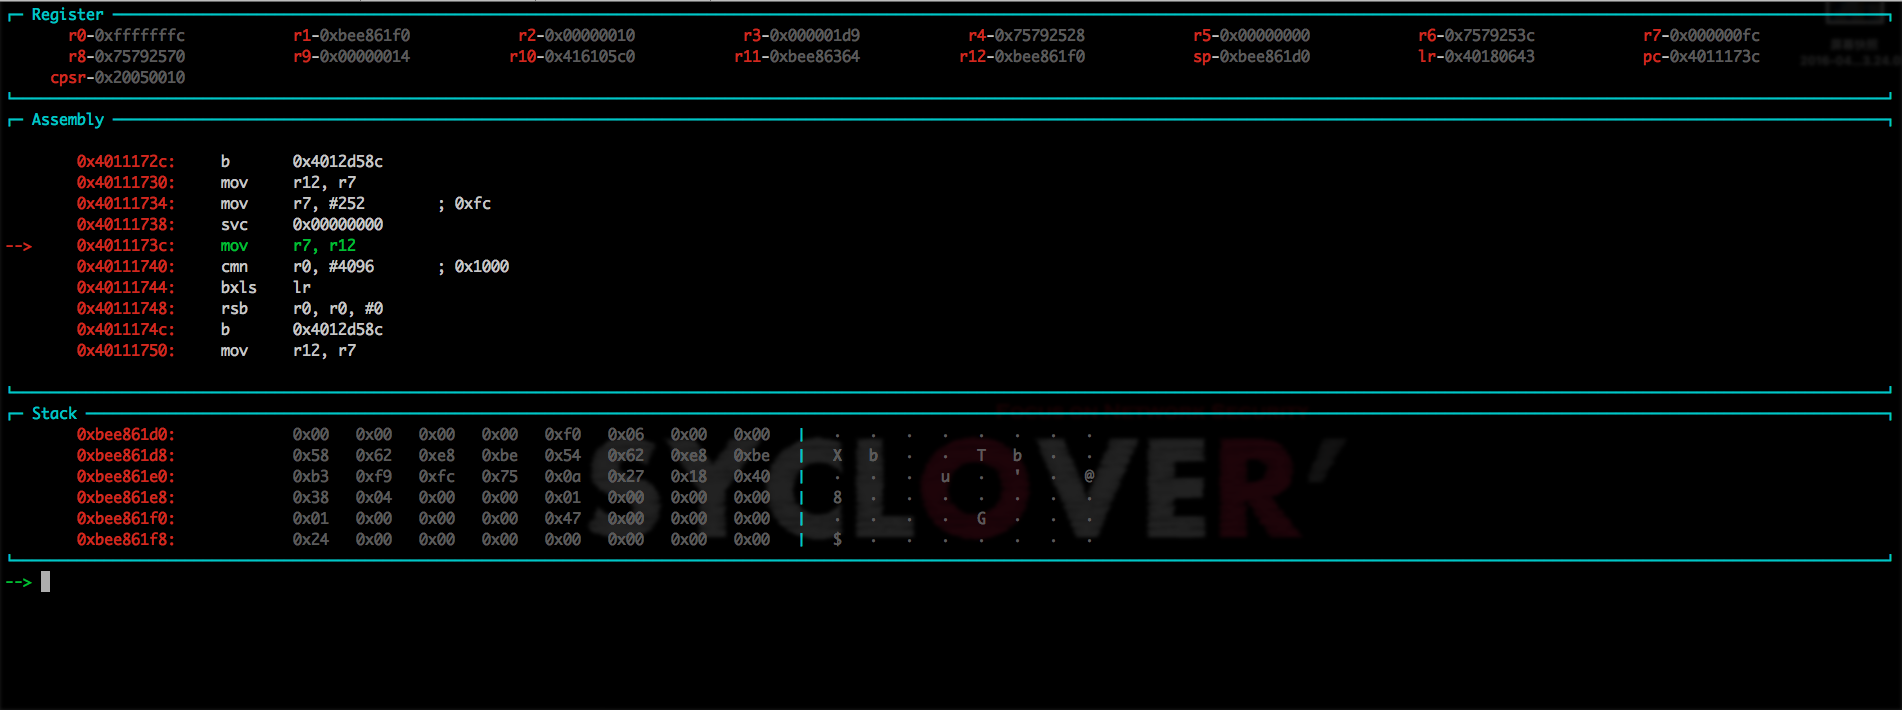
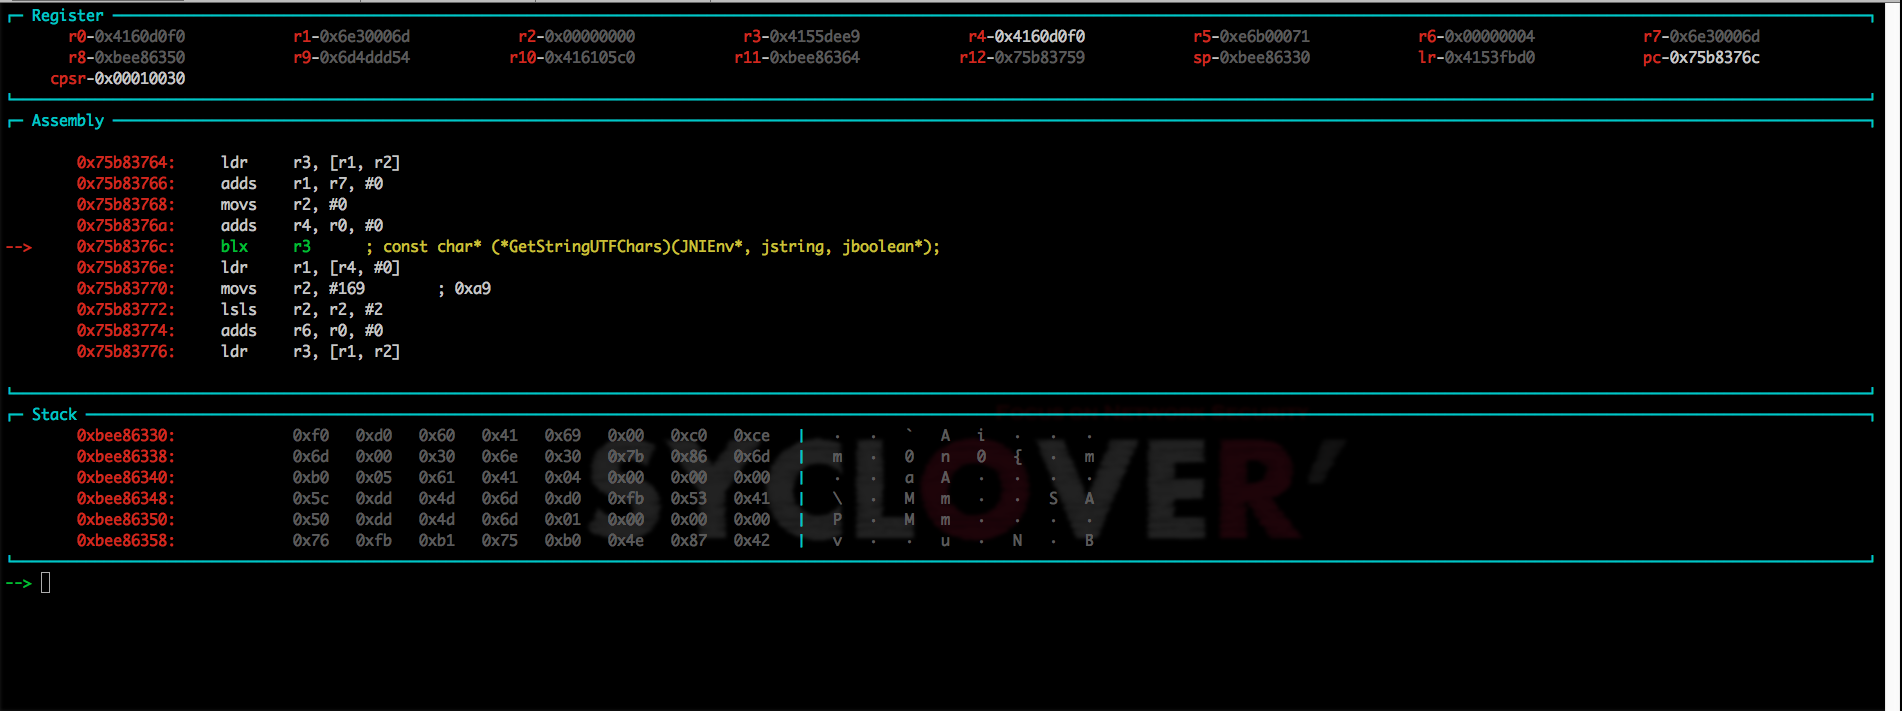
parsing the jni functions

diff --git a/strongdb.py b/strongdb.py
@@ -38,6 +38,7 @@ class Strongdb:
         Strongdb.term_width = Strongdb.get_terminal_width()
 
         Strongdb.run_cmd('set $sgdb_stack_width = 4')
+        Strongdb.run_cmd('set $sgdb_jnienv = 0')
         Strongdb.run_cmd('set pagination off')
 
     def init_handlers(self):
@@ -201,7 +202,250 @@ class StackModule():
             self.stack_info.append(line_list)
 
 
+class JniNativeInterface():
+    is_loaded = False
+    func_address = {}
+    table = [
+        "void*       reserved0;",
+        "void*       reserved1;",
+        "void*       reserved2;",
+        "void*       reserved3;",
+        "jint        (*GetVersion)(JNIEnv *);",
+        "jclass      (*DefineClass)(JNIEnv*, const char*, jobject, const jbyte*, jsize);",
+        "jclass      (*FindClass)(JNIEnv*, const char*);",
+        "jmethodID   (*FromReflectedMethod)(JNIEnv*, jobject);",
+        "jfieldID    (*FromReflectedField)(JNIEnv*, jobject);",
+        "jobject     (*ToReflectedMethod)(JNIEnv*, jclass, jmethodID, jboolean);",
+        "jclass      (*GetSuperclass)(JNIEnv*, jclass);",
+        "jboolean    (*IsAssignableFrom)(JNIEnv*, jclass, jclass);",
+        "jobject     (*ToReflectedField)(JNIEnv*, jclass, jfieldID, jboolean);",
+        "jint        (*Throw)(JNIEnv*, jthrowable);",
+        "jint        (*ThrowNew)(JNIEnv *, jclass, const char *);",
+        "jthrowable  (*ExceptionOccurred)(JNIEnv*);",
+        "void        (*ExceptionDescribe)(JNIEnv*);",
+        "void        (*ExceptionClear)(JNIEnv*);",
+        "void        (*FatalError)(JNIEnv*, const char*);",
+        "jint        (*PushLocalFrame)(JNIEnv*, jint);",
+        "jobject     (*PopLocalFrame)(JNIEnv*, jobject);",
+        "jobject     (*NewGlobalRef)(JNIEnv*, jobject);",
+        "void        (*DeleteGlobalRef)(JNIEnv*, jobject);",
+        "void        (*DeleteLocalRef)(JNIEnv*, jobject);",
+        "jboolean    (*IsSameObject)(JNIEnv*, jobject, jobject);",
+        "jobject     (*NewLocalRef)(JNIEnv*, jobject);",
+        "jint        (*EnsureLocalCapacity)(JNIEnv*, jint);",
+        "jobject     (*AllocObject)(JNIEnv*, jclass);",
+        "jobject     (*NewObject)(JNIEnv*, jclass, jmethodID, ...);",
+        "jobject     (*NewObjectV)(JNIEnv*, jclass, jmethodID, va_list);",
+        "jobject     (*NewObjectA)(JNIEnv*, jclass, jmethodID, jvalue*);",
+        "jclass      (*GetObjectClass)(JNIEnv*, jobject);",
+        "jboolean    (*IsInstanceOf)(JNIEnv*, jobject, jclass);",
+        "jmethodID   (*GetMethodID)(JNIEnv*, jclass, const char*, const char*);",
+        "jobject     (*CallObjectMethod)(JNIEnv*, jobject, jmethodID, ...);",
+        "jobject     (*CallObjectMethodV)(JNIEnv*, jobject, jmethodID, va_list);",
+        "jobject     (*CallObjectMethodA)(JNIEnv*, jobject, jmethodID, jvalue*);",
+        "jboolean    (*CallBooleanMethod)(JNIEnv*, jobject, jmethodID, ...);",
+        "jboolean    (*CallBooleanMethodV)(JNIEnv*, jobject, jmethodID, va_list);",
+        "jboolean    (*CallBooleanMethodA)(JNIEnv*, jobject, jmethodID, jvalue*);",
+        "jbyte       (*CallByteMethod)(JNIEnv*, jobject, jmethodID, ...);",
+        "jbyte       (*CallByteMethodV)(JNIEnv*, jobject, jmethodID, va_list);",
+        "jbyte       (*CallByteMethodA)(JNIEnv*, jobject, jmethodID, jvalue*);",
+        "jchar       (*CallCharMethod)(JNIEnv*, jobject, jmethodID, ...);",
+        "jchar       (*CallCharMethodV)(JNIEnv*, jobject, jmethodID, va_list);",
+        "jchar       (*CallCharMethodA)(JNIEnv*, jobject, jmethodID, jvalue*);",
+        "jshort      (*CallShortMethod)(JNIEnv*, jobject, jmethodID, ...);",
+        "jshort      (*CallShortMethodV)(JNIEnv*, jobject, jmethodID, va_list);",
+        "jshort      (*CallShortMethodA)(JNIEnv*, jobject, jmethodID, jvalue*);",
+        "jint        (*CallIntMethod)(JNIEnv*, jobject, jmethodID, ...);",
+        "jint        (*CallIntMethodV)(JNIEnv*, jobject, jmethodID, va_list);",
+        "jint        (*CallIntMethodA)(JNIEnv*, jobject, jmethodID, jvalue*);",
+        "jlong       (*CallLongMethod)(JNIEnv*, jobject, jmethodID, ...);",
+        "jlong       (*CallLongMethodV)(JNIEnv*, jobject, jmethodID, va_list);",
+        "jlong       (*CallLongMethodA)(JNIEnv*, jobject, jmethodID, jvalue*);",
+        "jfloat      (*CallFloatMethod)(JNIEnv*, jobject, jmethodID, ...) __NDK_FPABI__;",
+        "jfloat      (*CallFloatMethodV)(JNIEnv*, jobject, jmethodID, va_list) __NDK_FPABI__;",
+        "jfloat      (*CallFloatMethodA)(JNIEnv*, jobject, jmethodID, jvalue*) __NDK_FPABI__;",
+        "jdouble     (*CallDoubleMethod)(JNIEnv*, jobject, jmethodID, ...) __NDK_FPABI__;",
+        "jdouble     (*CallDoubleMethodV)(JNIEnv*, jobject, jmethodID, va_list) __NDK_FPABI__;",
+        "jdouble     (*CallDoubleMethodA)(JNIEnv*, jobject, jmethodID, jvalue*) __NDK_FPABI__;",
+        "void        (*CallVoidMethod)(JNIEnv*, jobject, jmethodID, ...);",
+        "void        (*CallVoidMethodV)(JNIEnv*, jobject, jmethodID, va_list);",
+        "void        (*CallVoidMethodA)(JNIEnv*, jobject, jmethodID, jvalue*);",
+        "jobject     (*CallNonvirtualObjectMethod)(JNIEnv*, jobject, jclass, jmethodID, ...);",
+        "jobject     (*CallNonvirtualObjectMethodV)(JNIEnv*, jobject, jclass, jmethodID, va_list);",
+        "jobject     (*CallNonvirtualObjectMethodA)(JNIEnv*, jobject, jclass, jmethodID, jvalue*);",
+        "jboolean    (*CallNonvirtualBooleanMethod)(JNIEnv*, jobject, jclass, jmethodID, ...);",
+        "jboolean    (*CallNonvirtualBooleanMethodV)(JNIEnv*, jobject, jclass, jmethodID, va_list);",
+        "jboolean    (*CallNonvirtualBooleanMethodA)(JNIEnv*, jobject, jclass, jmethodID, jvalue*);",
+        "jbyte       (*CallNonvirtualByteMethod)(JNIEnv*, jobject, jclass, jmethodID, ...);",
+        "jbyte       (*CallNonvirtualByteMethodV)(JNIEnv*, jobject, jclass, jmethodID, va_list);",
+        "jbyte       (*CallNonvirtualByteMethodA)(JNIEnv*, jobject, jclass, jmethodID, jvalue*);",
+        "jchar       (*CallNonvirtualCharMethod)(JNIEnv*, jobject, jclass, jmethodID, ...);",
+        "jchar       (*CallNonvirtualCharMethodV)(JNIEnv*, jobject, jclass, jmethodID, va_list);",
+        "jchar       (*CallNonvirtualCharMethodA)(JNIEnv*, jobject, jclass, jmethodID, jvalue*);",
+        "jshort      (*CallNonvirtualShortMethod)(JNIEnv*, jobject, jclass, jmethodID, ...);",
+        "jshort      (*CallNonvirtualShortMethodV)(JNIEnv*, jobject, jclass, jmethodID, va_list);",
+        "jshort      (*CallNonvirtualShortMethodA)(JNIEnv*, jobject, jclass, jmethodID, jvalue*);",
+        "jint        (*CallNonvirtualIntMethod)(JNIEnv*, jobject, jclass, jmethodID, ...);",
+        "jint        (*CallNonvirtualIntMethodV)(JNIEnv*, jobject, jclass, jmethodID, va_list);",
+        "jint        (*CallNonvirtualIntMethodA)(JNIEnv*, jobject, jclass, jmethodID, jvalue*);",
+        "jlong       (*CallNonvirtualLongMethod)(JNIEnv*, jobject, jclass, jmethodID, ...);",
+        "jlong       (*CallNonvirtualLongMethodV)(JNIEnv*, jobject, jclass, jmethodID, va_list);",
+        "jlong       (*CallNonvirtualLongMethodA)(JNIEnv*, jobject, jclass, jmethodID, jvalue*);",
+        "jfloat      (*CallNonvirtualFloatMethod)(JNIEnv*, jobject, jclass, jmethodID, ...) __NDK_FPABI__;",
+        "jfloat      (*CallNonvirtualFloatMethodV)(JNIEnv*, jobject, jclass, jmethodID, va_list) __NDK_FPABI__;",
+        "jfloat      (*CallNonvirtualFloatMethodA)(JNIEnv*, jobject, jclass, jmethodID, jvalue*) __NDK_FPABI__;",
+        "jdouble     (*CallNonvirtualDoubleMethod)(JNIEnv*, jobject, jclass, jmethodID, ...) __NDK_FPABI__;",
+        "jdouble     (*CallNonvirtualDoubleMethodV)(JNIEnv*, jobject, jclass, jmethodID, va_list) __NDK_FPABI__;",
+        "jdouble     (*CallNonvirtualDoubleMethodA)(JNIEnv*, jobject, jclass, jmethodID, jvalue*) __NDK_FPABI__;",
+        "void        (*CallNonvirtualVoidMethod)(JNIEnv*, jobject, jclass, jmethodID, ...);",
+        "void        (*CallNonvirtualVoidMethodV)(JNIEnv*, jobject, jclass, jmethodID, va_list);",
+        "void        (*CallNonvirtualVoidMethodA)(JNIEnv*, jobject, jclass, jmethodID, jvalue*);",
+        "jfieldID    (*GetFieldID)(JNIEnv*, jclass, const char*, const char*);",
+        "jobject     (*GetObjectField)(JNIEnv*, jobject, jfieldID);",
+        "jboolean    (*GetBooleanField)(JNIEnv*, jobject, jfieldID);",
+        "jbyte       (*GetByteField)(JNIEnv*, jobject, jfieldID);",
+        "jchar       (*GetCharField)(JNIEnv*, jobject, jfieldID);",
+        "jshort      (*GetShortField)(JNIEnv*, jobject, jfieldID);",
+        "jint        (*GetIntField)(JNIEnv*, jobject, jfieldID);",
+        "jlong       (*GetLongField)(JNIEnv*, jobject, jfieldID);",
+        "jfloat      (*GetFloatField)(JNIEnv*, jobject, jfieldID) __NDK_FPABI__;",
+        "jdouble     (*GetDoubleField)(JNIEnv*, jobject, jfieldID) __NDK_FPABI__;",
+        "void        (*SetObjectField)(JNIEnv*, jobject, jfieldID, jobject);",
+        "void        (*SetBooleanField)(JNIEnv*, jobject, jfieldID, jboolean);",
+        "void        (*SetByteField)(JNIEnv*, jobject, jfieldID, jbyte);",
+        "void        (*SetCharField)(JNIEnv*, jobject, jfieldID, jchar);",
+        "void        (*SetShortField)(JNIEnv*, jobject, jfieldID, jshort);",
+        "void        (*SetIntField)(JNIEnv*, jobject, jfieldID, jint);",
+        "void        (*SetLongField)(JNIEnv*, jobject, jfieldID, jlong);",
+        "void        (*SetFloatField)(JNIEnv*, jobject, jfieldID, jfloat) __NDK_FPABI__;",
+        "void        (*SetDoubleField)(JNIEnv*, jobject, jfieldID, jdouble) __NDK_FPABI__;",
+        "jmethodID   (*GetStaticMethodID)(JNIEnv*, jclass, const char*, const char*);",
+        "jobject     (*CallStaticObjectMethod)(JNIEnv*, jclass, jmethodID, ...);",
+        "jobject     (*CallStaticObjectMethodV)(JNIEnv*, jclass, jmethodID, va_list);",
+        "jobject     (*CallStaticObjectMethodA)(JNIEnv*, jclass, jmethodID, jvalue*);",
+        "jboolean    (*CallStaticBooleanMethod)(JNIEnv*, jclass, jmethodID, ...);",
+        "jboolean    (*CallStaticBooleanMethodV)(JNIEnv*, jclass, jmethodID, va_list);",
+        "jboolean    (*CallStaticBooleanMethodA)(JNIEnv*, jclass, jmethodID, jvalue*);",
+        "jbyte       (*CallStaticByteMethod)(JNIEnv*, jclass, jmethodID, ...);",
+        "jbyte       (*CallStaticByteMethodV)(JNIEnv*, jclass, jmethodID, va_list);",
+        "jbyte       (*CallStaticByteMethodA)(JNIEnv*, jclass, jmethodID, jvalue*);",
+        "jchar       (*CallStaticCharMethod)(JNIEnv*, jclass, jmethodID, ...);",
+        "jchar       (*CallStaticCharMethodV)(JNIEnv*, jclass, jmethodID, va_list);",
+        "jchar       (*CallStaticCharMethodA)(JNIEnv*, jclass, jmethodID, jvalue*);",
+        "jshort      (*CallStaticShortMethod)(JNIEnv*, jclass, jmethodID, ...);",
+        "jshort      (*CallStaticShortMethodV)(JNIEnv*, jclass, jmethodID, va_list);",
+        "jshort      (*CallStaticShortMethodA)(JNIEnv*, jclass, jmethodID, jvalue*);",
+        "jint        (*CallStaticIntMethod)(JNIEnv*, jclass, jmethodID, ...);",
+        "jint        (*CallStaticIntMethodV)(JNIEnv*, jclass, jmethodID, va_list);",
+        "jint        (*CallStaticIntMethodA)(JNIEnv*, jclass, jmethodID, jvalue*);",
+        "jlong       (*CallStaticLongMethod)(JNIEnv*, jclass, jmethodID, ...);",
+        "jlong       (*CallStaticLongMethodV)(JNIEnv*, jclass, jmethodID, va_list);",
+        "jlong       (*CallStaticLongMethodA)(JNIEnv*, jclass, jmethodID, jvalue*);",
+        "jfloat      (*CallStaticFloatMethod)(JNIEnv*, jclass, jmethodID, ...) __NDK_FPABI__;",
+        "jfloat      (*CallStaticFloatMethodV)(JNIEnv*, jclass, jmethodID, va_list) __NDK_FPABI__;",
+        "jfloat      (*CallStaticFloatMethodA)(JNIEnv*, jclass, jmethodID, jvalue*) __NDK_FPABI__;",
+        "jdouble     (*CallStaticDoubleMethod)(JNIEnv*, jclass, jmethodID, ...) __NDK_FPABI__;",
+        "jdouble     (*CallStaticDoubleMethodV)(JNIEnv*, jclass, jmethodID, va_list) __NDK_FPABI__;",
+        "jdouble     (*CallStaticDoubleMethodA)(JNIEnv*, jclass, jmethodID, jvalue*) __NDK_FPABI__;",
+        "void        (*CallStaticVoidMethod)(JNIEnv*, jclass, jmethodID, ...);",
+        "void        (*CallStaticVoidMethodV)(JNIEnv*, jclass, jmethodID, va_list);",
+        "void        (*CallStaticVoidMethodA)(JNIEnv*, jclass, jmethodID, jvalue*);",
+        "jfieldID    (*GetStaticFieldID)(JNIEnv*, jclass, const char*, const char*);",
+        "jobject     (*GetStaticObjectField)(JNIEnv*, jclass, jfieldID);",
+        "jboolean    (*GetStaticBooleanField)(JNIEnv*, jclass, jfieldID);",
+        "jbyte       (*GetStaticByteField)(JNIEnv*, jclass, jfieldID);",
+        "jchar       (*GetStaticCharField)(JNIEnv*, jclass, jfieldID);",
+        "jshort      (*GetStaticShortField)(JNIEnv*, jclass, jfieldID);",
+        "jint        (*GetStaticIntField)(JNIEnv*, jclass, jfieldID);",
+        "jlong       (*GetStaticLongField)(JNIEnv*, jclass, jfieldID);",
+        "jfloat      (*GetStaticFloatField)(JNIEnv*, jclass, jfieldID) __NDK_FPABI__;",
+        "jdouble     (*GetStaticDoubleField)(JNIEnv*, jclass, jfieldID) __NDK_FPABI__;",
+        "void        (*SetStaticObjectField)(JNIEnv*, jclass, jfieldID, jobject);",
+        "void        (*SetStaticBooleanField)(JNIEnv*, jclass, jfieldID, jboolean);",
+        "void        (*SetStaticByteField)(JNIEnv*, jclass, jfieldID, jbyte);",
+        "void        (*SetStaticCharField)(JNIEnv*, jclass, jfieldID, jchar);",
+        "void        (*SetStaticShortField)(JNIEnv*, jclass, jfieldID, jshort);",
+        "void        (*SetStaticIntField)(JNIEnv*, jclass, jfieldID, jint);",
+        "void        (*SetStaticLongField)(JNIEnv*, jclass, jfieldID, jlong);",
+        "void        (*SetStaticFloatField)(JNIEnv*, jclass, jfieldID, jfloat) __NDK_FPABI__;",
+        "void        (*SetStaticDoubleField)(JNIEnv*, jclass, jfieldID, jdouble) __NDK_FPABI__;",
+        "jstring     (*NewString)(JNIEnv*, const jchar*, jsize);",
+        "jsize       (*GetStringLength)(JNIEnv*, jstring);",
+        "const jchar* (*GetStringChars)(JNIEnv*, jstring, jboolean*);",
+        "void        (*ReleaseStringChars)(JNIEnv*, jstring, const jchar*);",
+        "jstring     (*NewStringUTF)(JNIEnv*, const char*);",
+        "jsize       (*GetStringUTFLength)(JNIEnv*, jstring);",
+        "const char* (*GetStringUTFChars)(JNIEnv*, jstring, jboolean*);",
+        "void        (*ReleaseStringUTFChars)(JNIEnv*, jstring, const char*);",
+        "jsize       (*GetArrayLength)(JNIEnv*, jarray);",
+        "jobjectArray (*NewObjectArray)(JNIEnv*, jsize, jclass, jobject);",
+        "jobject     (*GetObjectArrayElement)(JNIEnv*, jobjectArray, jsize);",
+        "void        (*SetObjectArrayElement)(JNIEnv*, jobjectArray, jsize, jobject);",
+        "jbooleanArray (*NewBooleanArray)(JNIEnv*, jsize);",
+        "jbyteArray    (*NewByteArray)(JNIEnv*, jsize);",
+        "jcharArray    (*NewCharArray)(JNIEnv*, jsize);",
+        "jshortArray   (*NewShortArray)(JNIEnv*, jsize);",
+        "jintArray     (*NewIntArray)(JNIEnv*, jsize);",
+        "jlongArray    (*NewLongArray)(JNIEnv*, jsize);",
+        "jfloatArray   (*NewFloatArray)(JNIEnv*, jsize);",
+        "jdoubleArray  (*NewDoubleArray)(JNIEnv*, jsize);",
+        "jboolean*   (*GetBooleanArrayElements)(JNIEnv*, jbooleanArray, jboolean*);",
+        "jbyte*      (*GetByteArrayElements)(JNIEnv*, jbyteArray, jboolean*);",
+        "jchar*      (*GetCharArrayElements)(JNIEnv*, jcharArray, jboolean*);",
+        "jshort*     (*GetShortArrayElements)(JNIEnv*, jshortArray, jboolean*);",
+        "jint*       (*GetIntArrayElements)(JNIEnv*, jintArray, jboolean*);",
+        "jlong*      (*GetLongArrayElements)(JNIEnv*, jlongArray, jboolean*);",
+        "jfloat*     (*GetFloatArrayElements)(JNIEnv*, jfloatArray, jboolean*);",
+        "jdouble*    (*GetDoubleArrayElements)(JNIEnv*, jdoubleArray, jboolean*);",
+        "void        (*ReleaseBooleanArrayElements)(JNIEnv*, jbooleanArray, jboolean*, jint);",
+        "void        (*ReleaseByteArrayElements)(JNIEnv*, jbyteArray, jbyte*, jint);",
+        "void        (*ReleaseCharArrayElements)(JNIEnv*, jcharArray, jchar*, jint);",
+        "void        (*ReleaseShortArrayElements)(JNIEnv*, jshortArray, jshort*, jint);",
+        "void        (*ReleaseIntArrayElements)(JNIEnv*, jintArray, jint*, jint);",
+        "void        (*ReleaseLongArrayElements)(JNIEnv*, jlongArray, jlong*, jint);",
+        "void        (*ReleaseFloatArrayElements)(JNIEnv*, jfloatArray, jfloat*, jint);",
+        "void        (*ReleaseDoubleArrayElements)(JNIEnv*, jdoubleArray, jdouble*, jint);",
+        "void        (*GetBooleanArrayRegion)(JNIEnv*, jbooleanArray, jsize, jsize, jboolean*);",
+        "void        (*GetByteArrayRegion)(JNIEnv*, jbyteArray, jsize, jsize, jbyte*);",
+        "void        (*GetCharArrayRegion)(JNIEnv*, jcharArray, jsize, jsize, jchar*);",
+        "void        (*GetShortArrayRegion)(JNIEnv*, jshortArray, jsize, jsize, jshort*);",
+        "void        (*GetIntArrayRegion)(JNIEnv*, jintArray, jsize, jsize, jint*);",
+        "void        (*GetLongArrayRegion)(JNIEnv*, jlongArray, jsize, jsize, jlong*);",
+        "void        (*GetFloatArrayRegion)(JNIEnv*, jfloatArray, jsize, jsize, jfloat*);",
+        "void        (*GetDoubleArrayRegion)(JNIEnv*, jdoubleArray, jsize, jsize, jdouble*);",
+        "void        (*SetBooleanArrayRegion)(JNIEnv*, jbooleanArray, jsize, jsize, const jboolean*);",
+        "void        (*SetByteArrayRegion)(JNIEnv*, jbyteArray, jsize, jsize, const jbyte*);",
+        "void        (*SetCharArrayRegion)(JNIEnv*, jcharArray, jsize, jsize, const jchar*);",
+        "void        (*SetShortArrayRegion)(JNIEnv*, jshortArray, jsize, jsize, const jshort*);",
+        "void        (*SetIntArrayRegion)(JNIEnv*, jintArray, jsize, jsize, const jint*);",
+        "void        (*SetLongArrayRegion)(JNIEnv*, jlongArray, jsize, jsize, const jlong*);",
+        "void        (*SetFloatArrayRegion)(JNIEnv*, jfloatArray, jsize, jsize, const jfloat*);",
+        "void        (*SetDoubleArrayRegion)(JNIEnv*, jdoubleArray, jsize, jsize, const jdouble*);",
+        "jint        (*RegisterNatives)(JNIEnv*, jclass, const JNINativeMethod*, jint);",
+        "jint        (*UnregisterNatives)(JNIEnv*, jclass);",
+        "jint        (*MonitorEnter)(JNIEnv*, jobject);",
+        "jint        (*MonitorExit)(JNIEnv*, jobject);",
+        "jint        (*GetJavaVM)(JNIEnv*, JavaVM**);",
+        "void        (*GetStringRegion)(JNIEnv*, jstring, jsize, jsize, jchar*);",
+        "void        (*GetStringUTFRegion)(JNIEnv*, jstring, jsize, jsize, char*);",
+        "void*       (*GetPrimitiveArrayCritical)(JNIEnv*, jarray, jboolean*);",
+        "void        (*ReleasePrimitiveArrayCritical)(JNIEnv*, jarray, void*, jint);",
+        "const jchar* (*GetStringCritical)(JNIEnv*, jstring, jboolean*);",
+        "void        (*ReleaseStringCritical)(JNIEnv*, jstring, const jchar*);",
+        "jweak       (*NewWeakGlobalRef)(JNIEnv*, jobject);",
+        "void        (*DeleteWeakGlobalRef)(JNIEnv*, jweak);",
+        "jboolean    (*ExceptionCheck)(JNIEnv*);",
+        "jobject     (*NewDirectByteBuffer)(JNIEnv*, void*, jlong);",
+        "void*       (*GetDirectBufferAddress)(JNIEnv*, jobject);",
+        "jlong       (*GetDirectBufferCapacity)(JNIEnv*, jobject);",
+        "jobjectRefType (*GetObjectRefType)(JNIEnv*, jobject);"
+    ]
+
+
 class AssemblyModule():
+
+    jni_env = JniNativeInterface()
+
     def get_contents(self):
         str = ""
         str += Strongdb.colorize('┌─ Assembly ' + '─' * (Strongdb.term_width - 13) + '┐\n\n', 'cyan')
@@ -214,21 +458,58 @@ class AssemblyModule():
         frame = gdb.selected_frame()
         instructions = frame.architecture().disassemble(frame.pc() - 4 * length_per_ins, count=10)
 
+        self.load_jni_native_table()
 
         for ins in instructions:
             if frame.pc() == ins['addr']:
                 str += Strongdb.colorize('-->\t' + hex(ins['addr'])[:-1] + ':\t', 'red')
-                str += Strongdb.colorize(ins['asm'], 'green') + '\n'
+
+                jni_func = ""
+
+                # get JNIEnv pointer
+                jni_env_addr = self.get_jni_env_addr()
+                # check blx rx
+                if jni_env_addr != 0 and ins['asm'].lower().startswith('blx\tr'):
+                    reg = ins['asm'][4:]
+
+                    called_addr = Strongdb.run_cmd('i r $' + reg).split(None)[1]
+
+                    # if the address is in JniNativeInterface address table
+                    if self.jni_env.func_address[called_addr] != None:
+                        jni_func = "; " + self.jni_env.func_address[called_addr]
+
+                str += Strongdb.colorize(ins['asm'] + '\t' + Strongdb.colorize(jni_func, 'yellow'), 'green') + '\n'
             else:
                 str += Strongdb.colorize('\t' + hex(ins['addr'])[:-1] + ':\t', 'red')
                 str += Strongdb.colorize(ins['asm'], 'white') + '\n'
 
 
         str += Strongdb.colorize('\n└' + '─' * (Strongdb.term_width - 2) + '┘', 'cyan')
-        Strongdb.is_arm_mode()
         return str
 
+    def load_jni_native_table(self):
+        jni_env_addr = self.get_jni_env_addr()
 
+        if (self.jni_env.is_loaded == False) and (jni_env_addr != 0):
+            for i in xrange(len(self.jni_env.table)):
+                j = i * 4
+                addr = self.get_func_addr(jni_env_addr + j)
+                self.jni_env.func_address[addr] = self.jni_env.table[i]
+
+            self.jni_env.is_loaded = True
+
+    def get_func_addr(self, pointer):
+        return Strongdb.run_cmd('x/wx ' + str(pointer)).split(None)[1]
+
+    def get_jni_env_addr(self):
+        value = Strongdb.run_cmd('p $sgdb_jnienv')
+        jni_env_addr = int(value[value.find('=') + 2:])
+        return jni_env_addr
+
+
+'''
+command test class
+'''
 class HelloWorld(gdb.Command):
     def __init__(self):
         super(HelloWorld, self).__init__("hello-world", gdb.COMMAND_USER)
